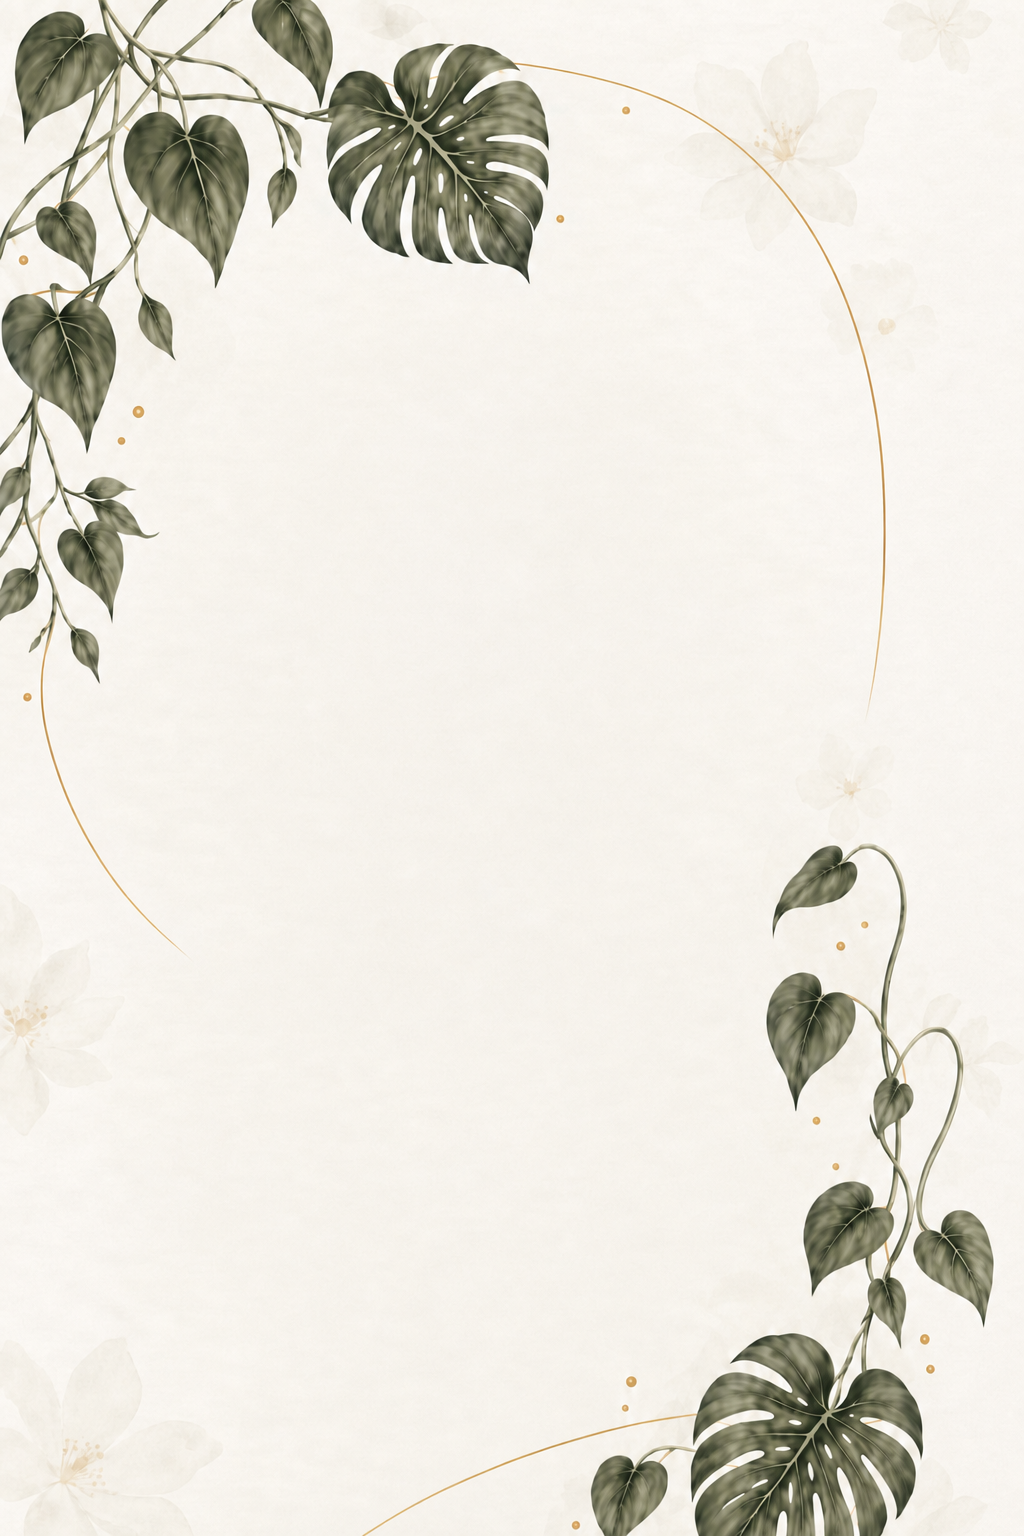
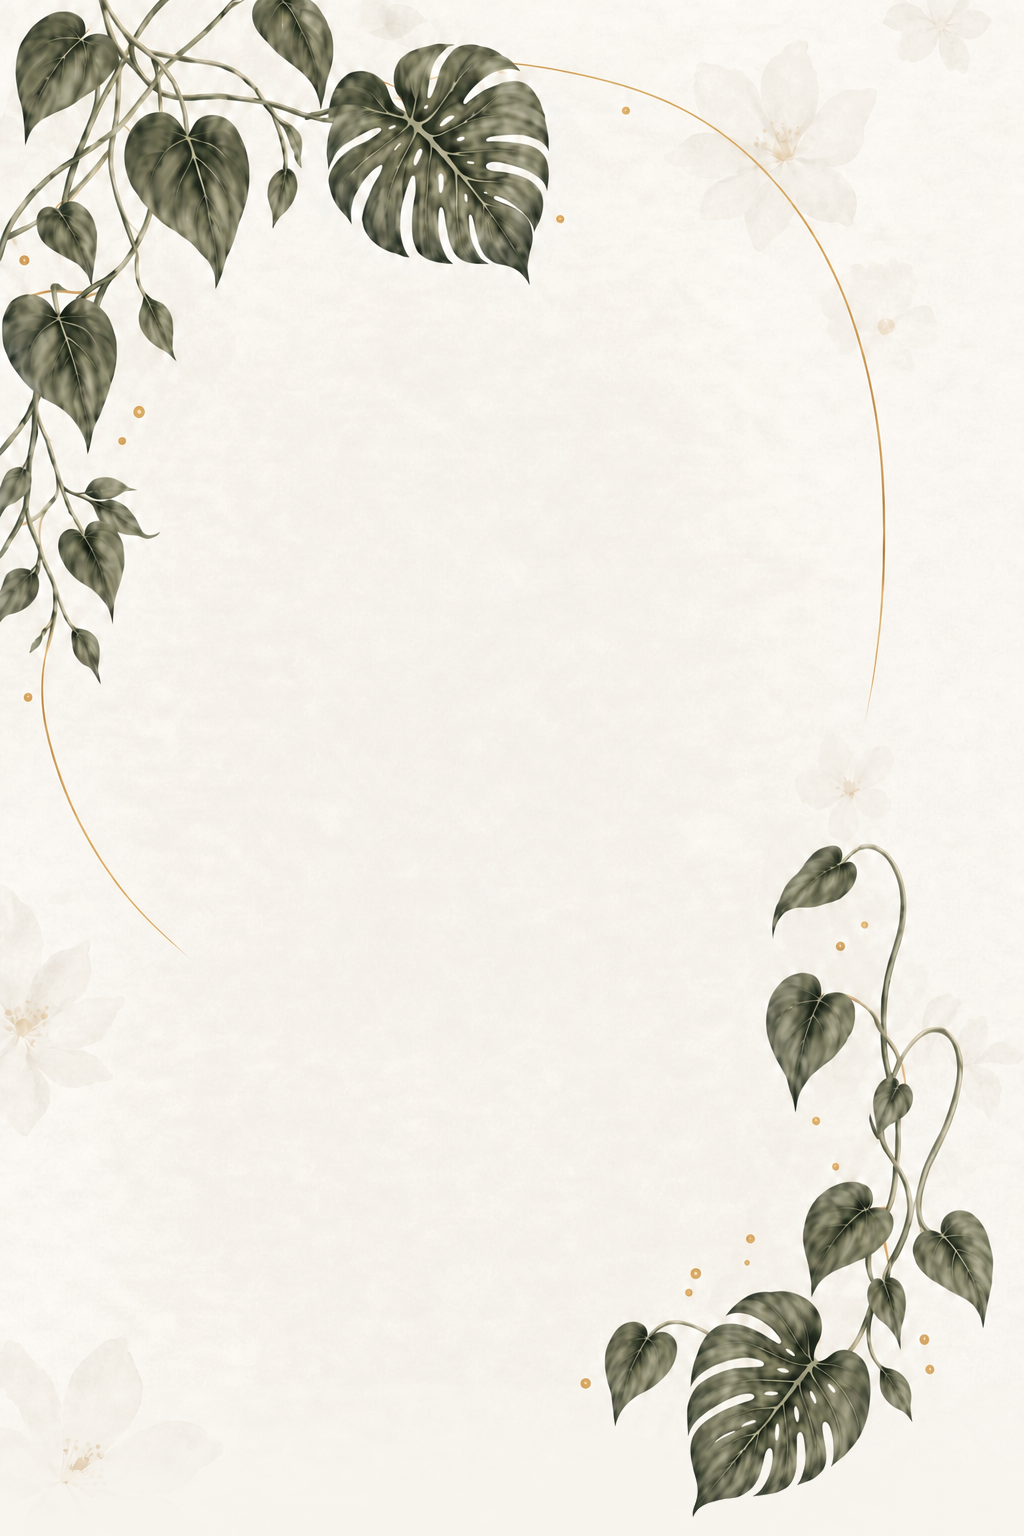
Fix the hero/page join properly, and dress the middle of the page
The fade at the bottom of the hero was hiding a problem instead of fixing it:
the background art bled off the bottom edge, so the leaves were sliced flat
(measured: 18.7% ink on the very bottom row).

- regenerated the background so the foliage tapers and ends inside the frame
  (bottom row ink now 0.0%), and normalised its paper to the page cream, with a
  ramp that lifts only near-paper pixels so no leaf dissolves
- removed the mask on .hero::before and the negative margin that pulled the
  countdown up; the join is now seamless with no trickery (247.1 vs 247.9)
- removed the small sprigs that looked like debris
- new soft groups in the hero's own hand: trailing foliage at the edges of the
  timeline, placed only in the bands where the item sits on the opposite side
  (verified LEAFY: NO OVERLAP), plus pale blossom watermarks that may pass
  behind text exactly as they do in the hero

diff --git a/index_green.html b/index_green.html
@@ -109,8 +109,6 @@
   .hero::before {
     content: ''; position: absolute; inset: 0; z-index: 0; pointer-events: none;
     background: url('assets/g_bg.png') center center / 118% 100% no-repeat;
-    -webkit-mask-image: linear-gradient(to bottom, #000 90%, rgba(0,0,0,.55) 96%, transparent 100%);
-            mask-image: linear-gradient(to bottom, #000 90%, rgba(0,0,0,.55) 96%, transparent 100%);
   }
   .hero-text { position: absolute; top: 19%; left: 11.5%; right: 11.5%; width: auto; z-index: 2;  padding-block: 2.5rem 1rem; text-align: center; direction: ltr; min-width: 0; }
   .invite1 {
@@ -374,18 +372,30 @@
   .timeline, .timeline-title, .countdown, .count-title { max-width: 100%; }
   .tl-item { max-width: 100%; }
   .count-section, .timeline-section { position: relative; }
-  .count-section { margin-top: -9svh; padding-top: 11svh; }
   .count-section > *, .timeline-section > * { position: relative; z-index: 1; }
 
-  /* gentle botanical CLUSTERS — like the hero, not a continuous border */
-  .sprig {
     position: absolute; z-index: 0; pointer-events: none; user-select: none;
     width: auto; opacity: .34;
   }
-  .sprig.s1 { top: -3svh;  left: -5%;  height: min(13svh, 118px); }
-  .sprig.s2 { top: 31%;    right: -7%;  height: min(9svh, 82px);  transform: scaleX(-1); opacity: .3; }
-  .sprig.s3 { top: 45%;    left: -4%;   height: min(10svh, 92px);  opacity: .28; }
-  .sprig.s4 { top: 86%;    right: -7%;  height: min(9svh, 82px);  transform: scaleX(-1) rotate(6deg); opacity: .28; }
+
+  /* ---- soft botanical groups through the middle of the page ---- */
+  .count-section, .timeline-section { position: relative; }
+  .count-section > *, .timeline-section > * { position: relative; z-index: 1; }
+  .grp { position: absolute; z-index: 0; pointer-events: none; user-select: none; width: auto; }
+  .grp.blossom { opacity: .55; }
+  .grp.leafy   { opacity: .6; }
+
+  /* countdown: a pale blossom watermark only - the section is too short for foliage */
+  .g-c1 { top: -14%; right: -16%; height: min(30svh, 300px); }
+
+  /* timeline: leafy groups sit in the bands where the item is on the OTHER side */
+  .g-t1 { top: 12%;  left: -9%;   height: min(19svh, 185px); }
+  .g-t2 { top: 27%;  right: -9%;  height: min(19svh, 185px); transform: scaleX(-1); }
+  .g-t3 { top: 42%;  left: -8%;   height: min(18svh, 175px); }
+  .g-t4 { top: 55.5%; right: -8%; height: min(17svh, 165px); transform: scaleX(-1); }
+  /* plus two pale blossom drifts that may pass behind the text, as in the hero */
+  .g-t5 { top: 55%;  left: 4%;    height: min(26svh, 260px); }
+  .g-t6 { top: 86%;  right: 2%;   height: min(24svh, 240px); }
 </style>
 </head>
 <body>
@@ -428,7 +438,7 @@
 
 <!-- COUNTDOWN -->
 <section class="count-section" id="countdown-sec">
-    <img class="sprig s1" src="assets/g_leftflank.png" alt="" aria-hidden="true">
+    <img class="grp blossom g-c1" src="assets/g_blossoms.png" alt="" aria-hidden="true">
   <div class="count-title fade-up heb" data-i18n="count_title">הספירה לאחור החלה</div>
   <div class="countdown fade-up">
     <div class="cd-unit"><div class="cd-num" id="cd-d">–</div><div class="cd-lbl heb" data-i18n="days">ימים</div></div>
@@ -440,9 +450,12 @@
 
 <!-- TIMELINE -->
 <section class="timeline-section">
-    <img class="sprig s2" src="assets/g_leftflank.png" alt="" aria-hidden="true">
-    <img class="sprig s3" src="assets/g_sprig_tr.png" alt="" aria-hidden="true">
-    <img class="sprig s4" src="assets/g_leftflank.png" alt="" aria-hidden="true">
+    <img class="grp leafy g-t1" src="assets/g_group_b.png" alt="" aria-hidden="true">
+    <img class="grp leafy g-t2" src="assets/g_group_a.png" alt="" aria-hidden="true">
+    <img class="grp leafy g-t3" src="assets/g_group_b.png" alt="" aria-hidden="true">
+    <img class="grp leafy g-t4" src="assets/g_group_b.png" alt="" aria-hidden="true">
+    <img class="grp blossom g-t5" src="assets/g_blossoms.png" alt="" aria-hidden="true">
+    <img class="grp blossom g-t6" src="assets/g_blossoms.png" alt="" aria-hidden="true">
   <h2 class="timeline-title fade-up" data-i18n="tl_title">לוח הזמנים של הערב</h2>
   <div class="timeline" id="timeline">
     <svg class="tl-svg" viewBox="0 0 120 990" preserveAspectRatio="none">
